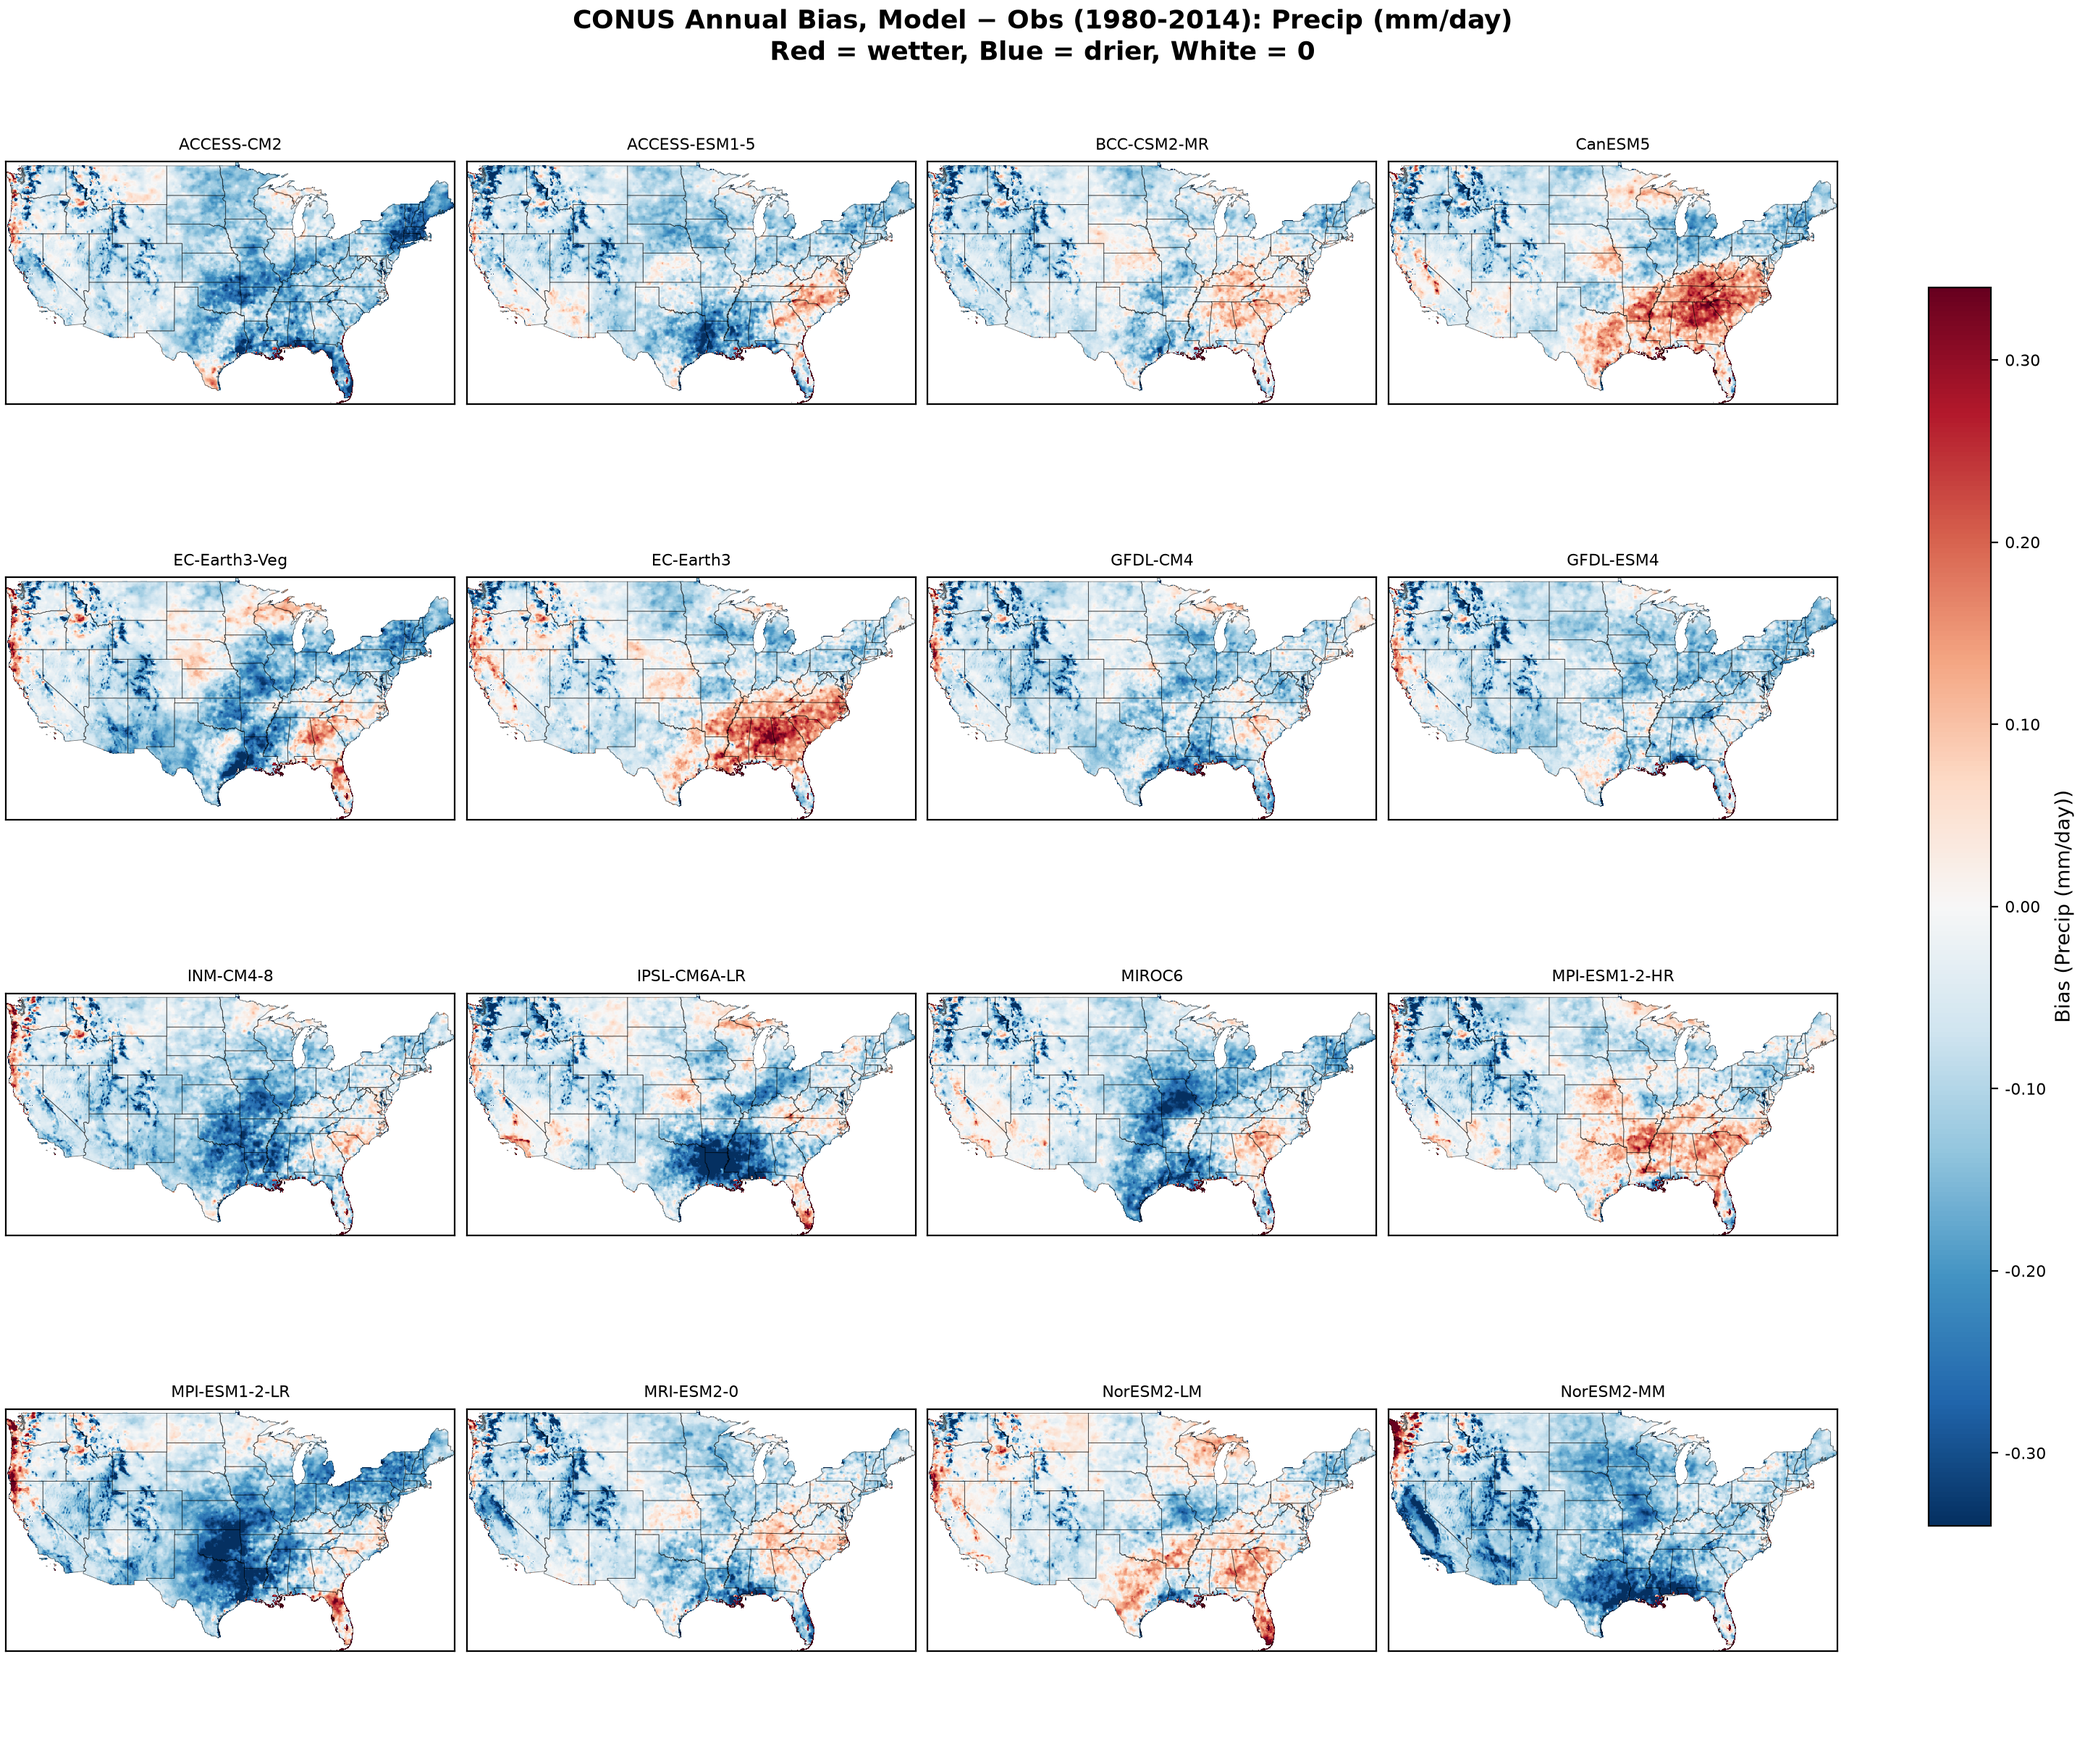
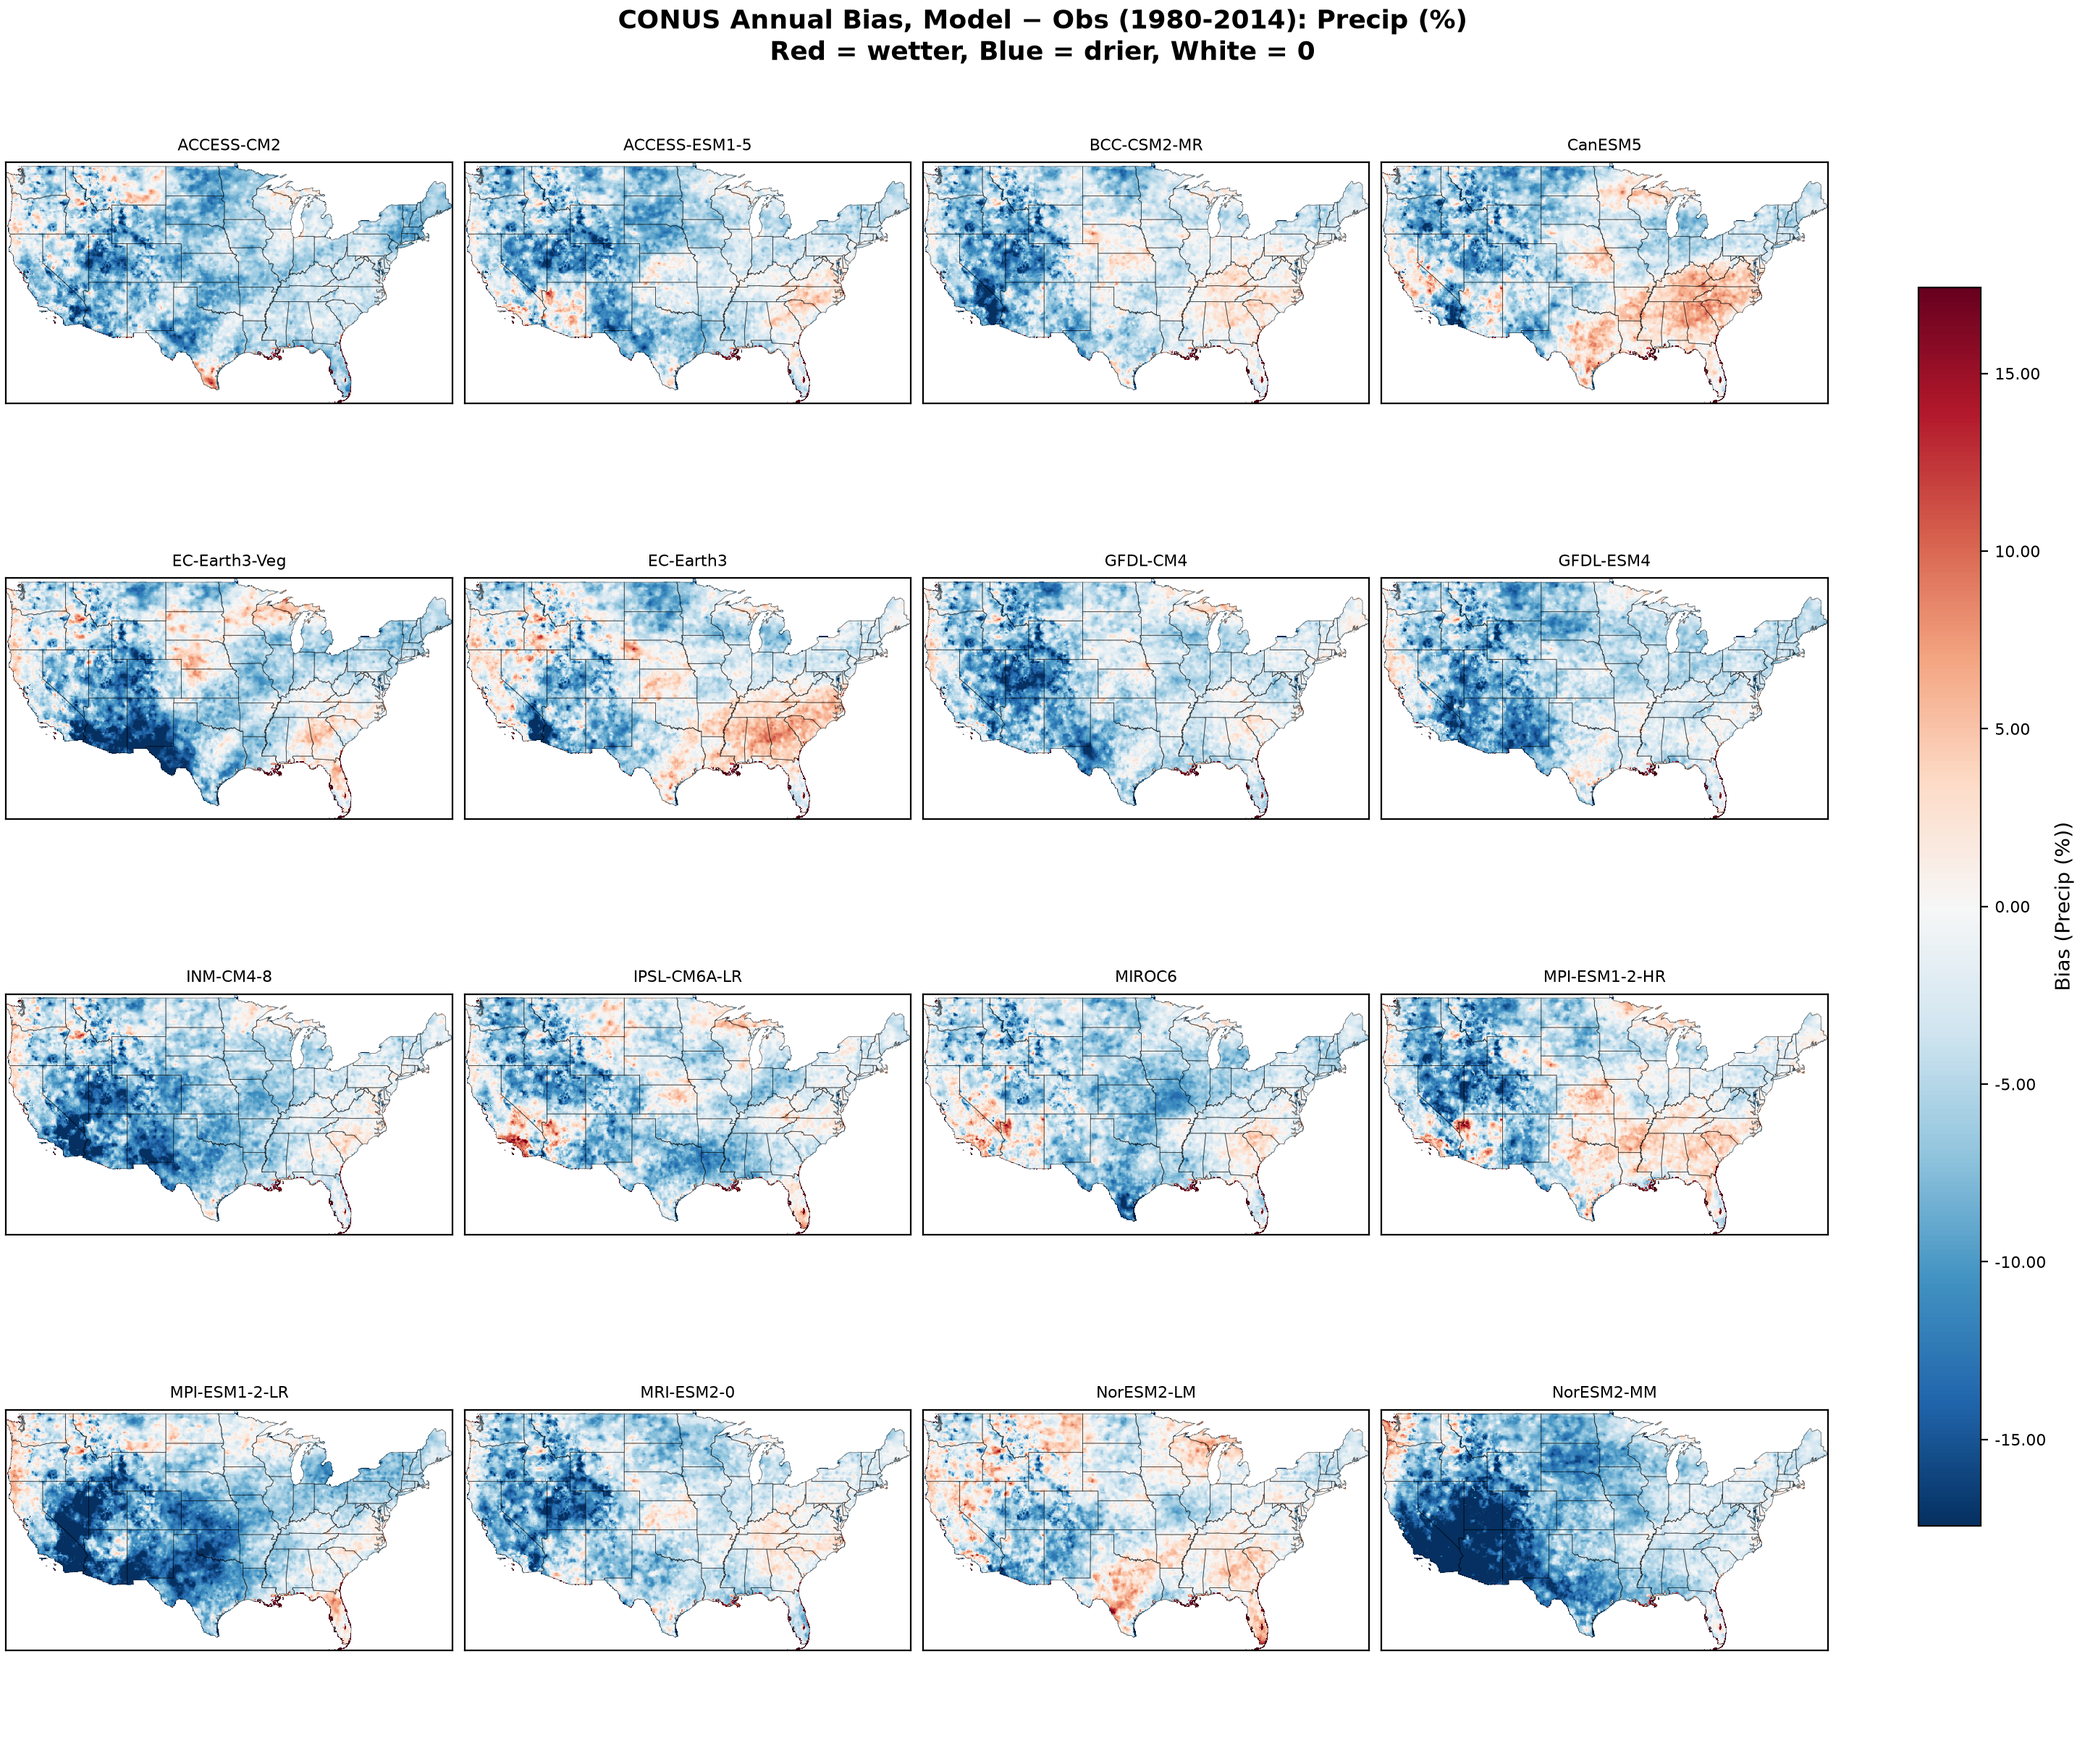
Changed precip bias maps from mm/day to percentage

Changed region(s): [[0.0, 0.1562, 1.0, 0.9688], [0.0, 0.0625, 0.9062, 0.25], [0.2812, 0.0, 0.7188, 0.0312]]

diff --git a/conus_climatology_bias_maps.py b/conus_climatology_bias_maps.py
@@ -274,6 +274,8 @@ def plot_bias_grid(var, model_bias, state_borders):
                               constrained_layout=True)
     axes = np.atleast_1d(axes).flatten()
 
+    bias_label = 'Precip (%)' if var == 'precip' else VAR_LABELS[var]
+
     mesh = None
     for ax, (label, da) in zip(axes, panels):
         # RdBu_r: low (negative, cooler/drier) -> blue, high (positive,
@@ -290,14 +292,14 @@ def plot_bias_grid(var, model_bias, state_borders):
         ax.axis('off')
 
     cbar = fig.colorbar(mesh, ax=axes[:n].tolist(), shrink=0.75,
-                         label=f'Bias ({VAR_LABELS[var]})')
+                         label=f'Bias ({bias_label})')
     cbar.ax.yaxis.set_major_formatter(FormatStrFormatter('%.2f'))
     cbar.ax.tick_params(labelsize=8)
 
     warm_word = "wetter" if var == "precip" else "warmer"
     cool_word = "drier" if var == "precip" else "cooler"
     fig.suptitle(
-        f'CONUS Annual Bias, Model \u2212 Obs (1980-2014): {VAR_LABELS[var]}\n'
+        f'CONUS Annual Bias, Model \u2212 Obs (1980-2014): {bias_label}\n'
         f'Red = {warm_word}, Blue = {cool_word}, White = 0',
         fontsize=13, fontweight='bold')
 
@@ -336,7 +338,10 @@ for var, operation in variables_config.items():
             model_clims[name] = m_clim
 
             obs_regrid = obs_clim.interp_like(m_clim, method='nearest')
-            model_bias[name] = m_clim - obs_regrid
+            if var == 'precip':
+                model_bias[name] = (m_clim - obs_regrid) / obs_regrid * 100
+            else:
+                model_bias[name] = m_clim - obs_regrid
 
         except Exception as e:
             print(f"  Skipping model {name} [{var}] due to calculation mismatch: {e}")
